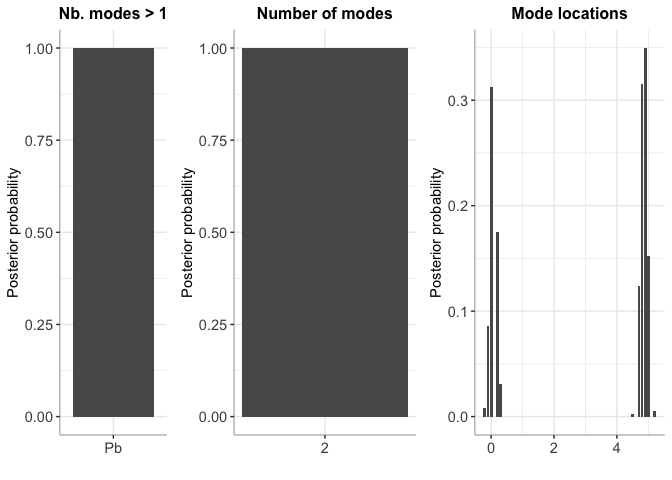
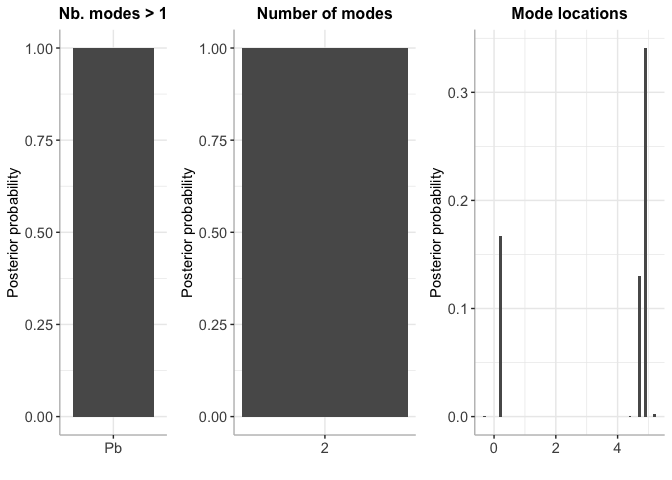
tb_nb_modes -> p_nb_modes table_location -> p_mode_loc

diff --git a/tests/testthat/_snaps/bayes_mode.md b/tests/testthat/_snaps/bayes_mode.md
@@ -11,19 +11,6 @@
       - Names of variables: mu sigma xi nu
       
       Summary of MCMC output after burnin:
-      # A tibble: 10 x 10
-         variable  mean median    sd   mad    q5   q95  rhat ess_bulk ess_tail
-         <chr>    <dbl>  <dbl> <dbl> <dbl> <dbl> <dbl> <dbl>    <dbl>    <dbl>
-       1 eta1       0.8    0.8    NA     0   0.8   0.8    NA       NA       NA
-       2 eta2       0.2    0.2    NA     0   0.2   0.2    NA       NA       NA
-       3 mu1        0.5    0.5    NA     0   0.5   0.5    NA       NA       NA
-       4 mu2        6      6      NA     0   6     6      NA       NA       NA
-       5 sigma1     1      1      NA     0   1     1      NA       NA       NA
-       6 sigma2     2      2      NA     0   2     2      NA       NA       NA
-       7 xi1        0      0      NA     0   0     0      NA       NA       NA
-       8 xi2        0      0      NA     0   0     0      NA       NA       NA
-       9 nu1        5      5      NA     0   5     5      NA       NA       NA
-      10 nu2        5      5      NA     0   5     5      NA       NA       NA
       this table can be reproduced with: summarise_draws(bayesmix$mcmc)
 
 ---
@@ -33,13 +20,13 @@
     Output
       Posterior probability of multimodality is 1 
       
-      Snapshot of inference results on the number of modes:
-        tb_nb_modes (matrix, dim 1x2): 
+      Inference results on the number of modes:
+        p_nb_modes (matrix, dim 1x2): 
            number of modes posterior probability
       [1,]               2                     1
       
-      Snapshot of inference results on mode locations:
-        table_location (matrix, dim 55x2): 
+      Inference results on mode locations:
+        p_loc (matrix, dim 55x2): 
            mode location posterior probability
       [1,]           0.5                     1
       [2,]           0.6                     0
@@ -62,15 +49,6 @@
       - Names of variables: mu sigma
       
       Summary of MCMC output after burnin:
-      # A tibble: 6 x 10
-        variable   mean median     sd    mad     q5    q95  rhat ess_bulk ess_tail
-        <chr>     <dbl>  <dbl>  <dbl>  <dbl>  <dbl>  <dbl> <dbl>    <dbl>    <dbl>
-      1 eta1      0.502  0.502 0.0366 0.0347  0.439  0.560 1.00      423.     361.
-      2 eta2      0.498  0.498 0.0366 0.0347  0.440  0.561 1.00      423.     361.
-      3 mu1       4.98   4.98  0.108  0.113   4.81   5.17  1.01      288.     288.
-      4 mu2      -5.00  -5.00  0.0911 0.0914 -5.15  -4.85  0.998     353.     404.
-      5 sigma1    0.998  0.998 0.0693 0.0730  0.887  1.12  1.00      325.     337.
-      6 sigma2    0.907  0.904 0.0610 0.0595  0.814  1.02  1.00      303.     312.
       this table can be reproduced with: summarise_draws(bayesmix$mcmc)
 
 ---
@@ -80,13 +58,13 @@
     Output
       Posterior probability of multimodality is 1 
       
-      Snapshot of inference results on the number of modes:
-        tb_nb_modes (matrix, dim 1x2): 
+      Inference results on the number of modes:
+        p_nb_modes (matrix, dim 1x2): 
            number of modes posterior probability
       [1,]               2                     1
       
-      Snapshot of inference results on mode locations:
-        table_location (matrix, dim 107x2): 
+      Inference results on mode locations:
+        p_loc (matrix, dim 107x2): 
            mode location posterior probability
       [1,]          -5.2                 0.055
       [2,]          -5.1                 0.000
@@ -109,17 +87,6 @@
       - Names of variables: xi omega alpha
       
       Summary of MCMC output after burnin:
-      # A tibble: 8 x 10
-        variable   mean median     sd    mad     q5    q95  rhat ess_bulk ess_tail
-        <chr>     <dbl>  <dbl>  <dbl>  <dbl>  <dbl>  <dbl> <dbl>    <dbl>    <dbl>
-      1 eta1      0.500  0.500 0.0344 0.0324  0.443  0.558  1.00    411.     447. 
-      2 eta2      0.500  0.500 0.0344 0.0324  0.442  0.557  1.00    411.     447. 
-      3 xi1       3.93   3.91  0.199  0.182   3.64   4.31   1.01     40.6     61.3
-      4 xi2      -4.45  -4.39  0.320  0.291  -5.06  -3.99   1.00     24.7     64.0
-      5 omega1    1.43   1.44  0.165  0.177   1.17   1.70   1.01     46.6    134. 
-      6 omega2    1.10   1.08  0.157  0.163   0.878  1.37   1.00     29.3    221. 
-      7 alpha1    2.04   2.06  0.710  0.661   0.945  3.15   1.05     30.1     21.7
-      8 alpha2   -0.873 -0.856 0.594  0.619  -1.81   0.124  1.00     22.4     59.7
       this table can be reproduced with: summarise_draws(bayesmix$mcmc)
 
 ---
@@ -129,13 +96,13 @@
     Output
       Posterior probability of multimodality is 1 
       
-      Snapshot of inference results on the number of modes:
-        tb_nb_modes (matrix, dim 1x2): 
+      Inference results on the number of modes:
+        p_nb_modes (matrix, dim 1x2): 
            number of modes posterior probability
       [1,]               2                     1
       
-      Snapshot of inference results on mode locations:
-        table_location (matrix, dim 104x2): 
+      Inference results on mode locations:
+        p_loc (matrix, dim 104x2): 
            mode location posterior probability
       [1,]          -5.2                0.0050
       [2,]          -5.1                0.0000
@@ -158,15 +125,6 @@
       - Names of variables: kappa lambda
       
       Summary of MCMC output after burnin:
-      # A tibble: 6 x 10
-        variable  mean median     sd    mad    q5   q95  rhat ess_bulk ess_tail
-        <chr>    <dbl>  <dbl>  <dbl>  <dbl> <dbl> <dbl> <dbl>    <dbl>    <dbl>
-      1 eta1     0.435  0.435 0.0518 0.0548 0.352 0.523  1.20     3.81     63.9
-      2 eta2     0.565  0.565 0.0518 0.0548 0.477 0.648  1.20     3.81     63.9
-      3 kappa1   0      0     0      0      0     0     NA       NA        NA  
-      4 kappa2   1.14   1     1.28   1.48   0     3      1.43     2.11     NA  
-      5 lambda1  0.828  0.825 0.128  0.123  0.621 1.04   1.12     6.76    182. 
-      6 lambda2  4.35   4.60  1.08   1.10   2.67  5.66   1.29     3.15     43.4
       this table can be reproduced with: summarise_draws(bayesmix$mcmc)
 
 ---
@@ -176,14 +134,14 @@
     Output
       Posterior probability of multimodality is 0.9975 
       
-      Snapshot of inference results on the number of modes:
-        tb_nb_modes (matrix, dim 2x2): 
+      Inference results on the number of modes:
+        p_nb_modes (matrix, dim 2x2): 
            number of modes posterior probability
       [1,]               1                0.0025
       [2,]               2                0.9975
       
-      Snapshot of inference results on mode locations:
-        table_location (matrix, dim 7x2): 
+      Inference results on mode locations:
+        p_loc (matrix, dim 7x2): 
            mode location posterior probability
       [1,]             0                0.8525
       [2,]             1                0.1475
@@ -206,13 +164,6 @@
       - Names of variables: lambda
       
       Summary of MCMC output after burnin:
-      # A tibble: 4 x 10
-        variable   mean median     sd    mad    q5    q95  rhat ess_bulk ess_tail
-        <chr>     <dbl>  <dbl>  <dbl>  <dbl> <dbl>  <dbl> <dbl>    <dbl>    <dbl>
-      1 eta1      0.503  0.503 0.0332 0.0319 0.447  0.556 0.998     359.     333.
-      2 eta2      0.497  0.497 0.0332 0.0319 0.444  0.553 0.998     359.     333.
-      3 lambda1   0.483  0.479 0.0721 0.0731 0.372  0.605 1.00      338.     271.
-      4 lambda2  10.1   10.1   0.316  0.320  9.61  10.6   1.00      416.     452.
       this table can be reproduced with: summarise_draws(bayesmix$mcmc)
 
 ---
@@ -222,13 +173,13 @@
     Output
       Posterior probability of multimodality is 1 
       
-      Snapshot of inference results on the number of modes:
-        tb_nb_modes (matrix, dim 1x2): 
+      Inference results on the number of modes:
+        p_nb_modes (matrix, dim 1x2): 
            number of modes posterior probability
       [1,]               2                     1
       
-      Snapshot of inference results on mode locations:
-        table_location (matrix, dim 12x2): 
+      Inference results on mode locations:
+        p_loc (matrix, dim 12x2): 
            mode location posterior probability
       [1,]             0                     1
       [2,]             1                     0

diff --git a/external_comp.md b/external_comp.md
@@ -104,21 +104,21 @@ summary(bayesmode)
 
     ## Posterior probability of multimodality is 1 
     ## 
-    ## Snapshot of inference results on the number of modes:
-    ##   tb_nb_modes (matrix, dim 1x2): 
+    ## Inference results on the number of modes:
+    ##   p_nb_modes (matrix, dim 1x2): 
     ##      number of modes posterior probability
     ## [1,]               2                     1
     ## 
-    ## Snapshot of inference results on mode locations:
-    ##   table_location (matrix, dim 55x2): 
+    ## Inference results on mode locations:
+    ##   p_loc (matrix, dim 56x2): 
     ##      mode location posterior probability
-    ## [1,]          -0.2                0.0080
-    ## [2,]          -0.1                0.0855
-    ## [3,]           0.0                0.3125
-    ## [4,]           0.1                0.0000
-    ## [5,]           0.2                0.1755
-    ## [6,]           0.3                0.0310
-    ## ... (49 more rows)
+    ## [1,] -3.000000e-01                0.0010
+    ## [2,] -2.000000e-01                0.0000
+    ## [3,] -1.000000e-01                0.0000
+    ## [4,]  5.551115e-17                0.0000
+    ## [5,]  1.000000e-01                0.0000
+    ## [6,]  2.000000e-01                0.1675
+    ## ... (50 more rows)
 
 ### rstan
 
@@ -174,8 +174,8 @@ fit <- stan(model_code = normal_mixture_model, data = data_list, iter = 2000, ch
     ## 
     ## SAMPLING FOR MODEL '07e8533f6a3188d2d50eb989867b63d7' NOW (CHAIN 1).
     ## Chain 1: 
-    ## Chain 1: Gradient evaluation took 4.5e-05 seconds
-    ## Chain 1: 1000 transitions using 10 leapfrog steps per transition would take 0.45 seconds.
+    ## Chain 1: Gradient evaluation took 4.1e-05 seconds
+    ## Chain 1: 1000 transitions using 10 leapfrog steps per transition would take 0.41 seconds.
     ## Chain 1: Adjust your expectations accordingly!
     ## Chain 1: 
     ## Chain 1: 
@@ -192,9 +192,9 @@ fit <- stan(model_code = normal_mixture_model, data = data_list, iter = 2000, ch
     ## Chain 1: Iteration: 1800 / 2000 [ 90%]  (Sampling)
     ## Chain 1: Iteration: 2000 / 2000 [100%]  (Sampling)
     ## Chain 1: 
-    ## Chain 1:  Elapsed Time: 0.252847 seconds (Warm-up)
-    ## Chain 1:                0.194443 seconds (Sampling)
-    ## Chain 1:                0.44729 seconds (Total)
+    ## Chain 1:  Elapsed Time: 0.254864 seconds (Warm-up)
+    ## Chain 1:                0.196625 seconds (Sampling)
+    ## Chain 1:                0.451489 seconds (Total)
     ## Chain 1:
 
 #### Create a BayesMixture object
@@ -231,13 +231,13 @@ summary(bayesmode)
 
     ## Posterior probability of multimodality is 1 
     ## 
-    ## Snapshot of inference results on the number of modes:
-    ##   tb_nb_modes (matrix, dim 1x2): 
+    ## Inference results on the number of modes:
+    ##   p_nb_modes (matrix, dim 1x2): 
     ##      number of modes posterior probability
     ## [1,]               2                     1
     ## 
-    ## Snapshot of inference results on mode locations:
-    ##   table_location (matrix, dim 55x2): 
+    ## Inference results on mode locations:
+    ##   p_loc (matrix, dim 55x2): 
     ##      mode location posterior probability
     ## [1,]          -0.2                 0.007
     ## [2,]          -0.1                 0.097
@@ -321,24 +321,25 @@ plot(bayesmode)
 summary(bayesmode)
 ```
 
-    ## Posterior probability of multimodality is 0.005 
+    ## Posterior probability of multimodality is 0.027 
     ## 
-    ## Snapshot of inference results on the number of modes:
-    ##   tb_nb_modes (matrix, dim 2x2): 
+    ## Inference results on the number of modes:
+    ##   p_nb_modes (matrix, dim 3x2): 
     ##      number of modes posterior probability
-    ## [1,]               1                 0.995
-    ## [2,]               2                 0.005
+    ## [1,]               1                 0.973
+    ## [2,]               2                 0.026
+    ## [3,]               3                 0.001
     ## 
-    ## Snapshot of inference results on mode locations:
-    ##   table_location (matrix, dim 68x2): 
+    ## Inference results on mode locations:
+    ##   p_loc (matrix, dim 73x2): 
     ##      mode location posterior probability
     ## [1,]           4.9                 0.002
-    ## [2,]           5.0                 0.013
+    ## [2,]           5.0                 0.014
     ## [3,]           5.1                 0.000
-    ## [4,]           5.2                 0.062
+    ## [4,]           5.2                 0.095
     ## [5,]           5.3                 0.000
-    ## [6,]           5.4                 0.159
-    ## ... (62 more rows)
+    ## [6,]           5.4                 0.148
+    ## ... (67 more rows)
 
 ### BNPmix
 
@@ -416,14 +417,14 @@ summary(bayesmode)
 
     ## Posterior probability of multimodality is 1 
     ## 
-    ## Snapshot of inference results on the number of modes:
-    ##   tb_nb_modes (matrix, dim 2x2): 
+    ## Inference results on the number of modes:
+    ##   p_nb_modes (matrix, dim 2x2): 
     ##      number of modes posterior probability
     ## [1,]               2                 0.993
     ## [2,]               3                 0.007
     ## 
-    ## Snapshot of inference results on mode locations:
-    ##   table_location (matrix, dim 85x2): 
+    ## Inference results on mode locations:
+    ##   p_loc (matrix, dim 85x2): 
     ##      mode location posterior probability
     ## [1,] -3.000000e-01                 0.006
     ## [2,] -2.000000e-01                 0.000

diff --git a/README.md b/README.md
@@ -85,16 +85,16 @@ summary(bayesmode)
 
     ## Posterior probability of multimodality is 0.993 
     ## 
-    ## Snapshot of inference results on the number of modes:
-    ##   tb_nb_modes (matrix, dim 4x2): 
+    ## Inference results on the number of modes:
+    ##   p_nb_modes (matrix, dim 4x2): 
     ##      number of modes posterior probability
     ## [1,]               1                 0.007
     ## [2,]               2                 0.133
     ## [3,]               3                 0.840
     ## [4,]               4                 0.020
     ## 
-    ## Snapshot of inference results on mode locations:
-    ##   table_location (matrix, dim 252x2): 
+    ## Inference results on mode locations:
+    ##   p_loc (matrix, dim 252x2): 
     ##      mode location posterior probability
     ## [1,]           9.2                 0.021
     ## [2,]           9.3                 0.000
@@ -193,14 +193,14 @@ summary(bayesmode)
 
     ## Posterior probability of multimodality is 1 
     ## 
-    ## Snapshot of inference results on the number of modes:
-    ##   tb_nb_modes (matrix, dim 2x2): 
+    ## Inference results on the number of modes:
+    ##   p_nb_modes (matrix, dim 2x2): 
     ##      number of modes posterior probability
     ## [1,]               2                 0.897
     ## [2,]               3                 0.103
     ## 
-    ## Snapshot of inference results on mode locations:
-    ##   table_location (matrix, dim 793x2): 
+    ## Inference results on mode locations:
+    ##   p_loc (matrix, dim 793x2): 
     ##      mode location posterior probability
     ## [1,]          40.2                 0.001
     ## [2,]          40.3                 0.000
